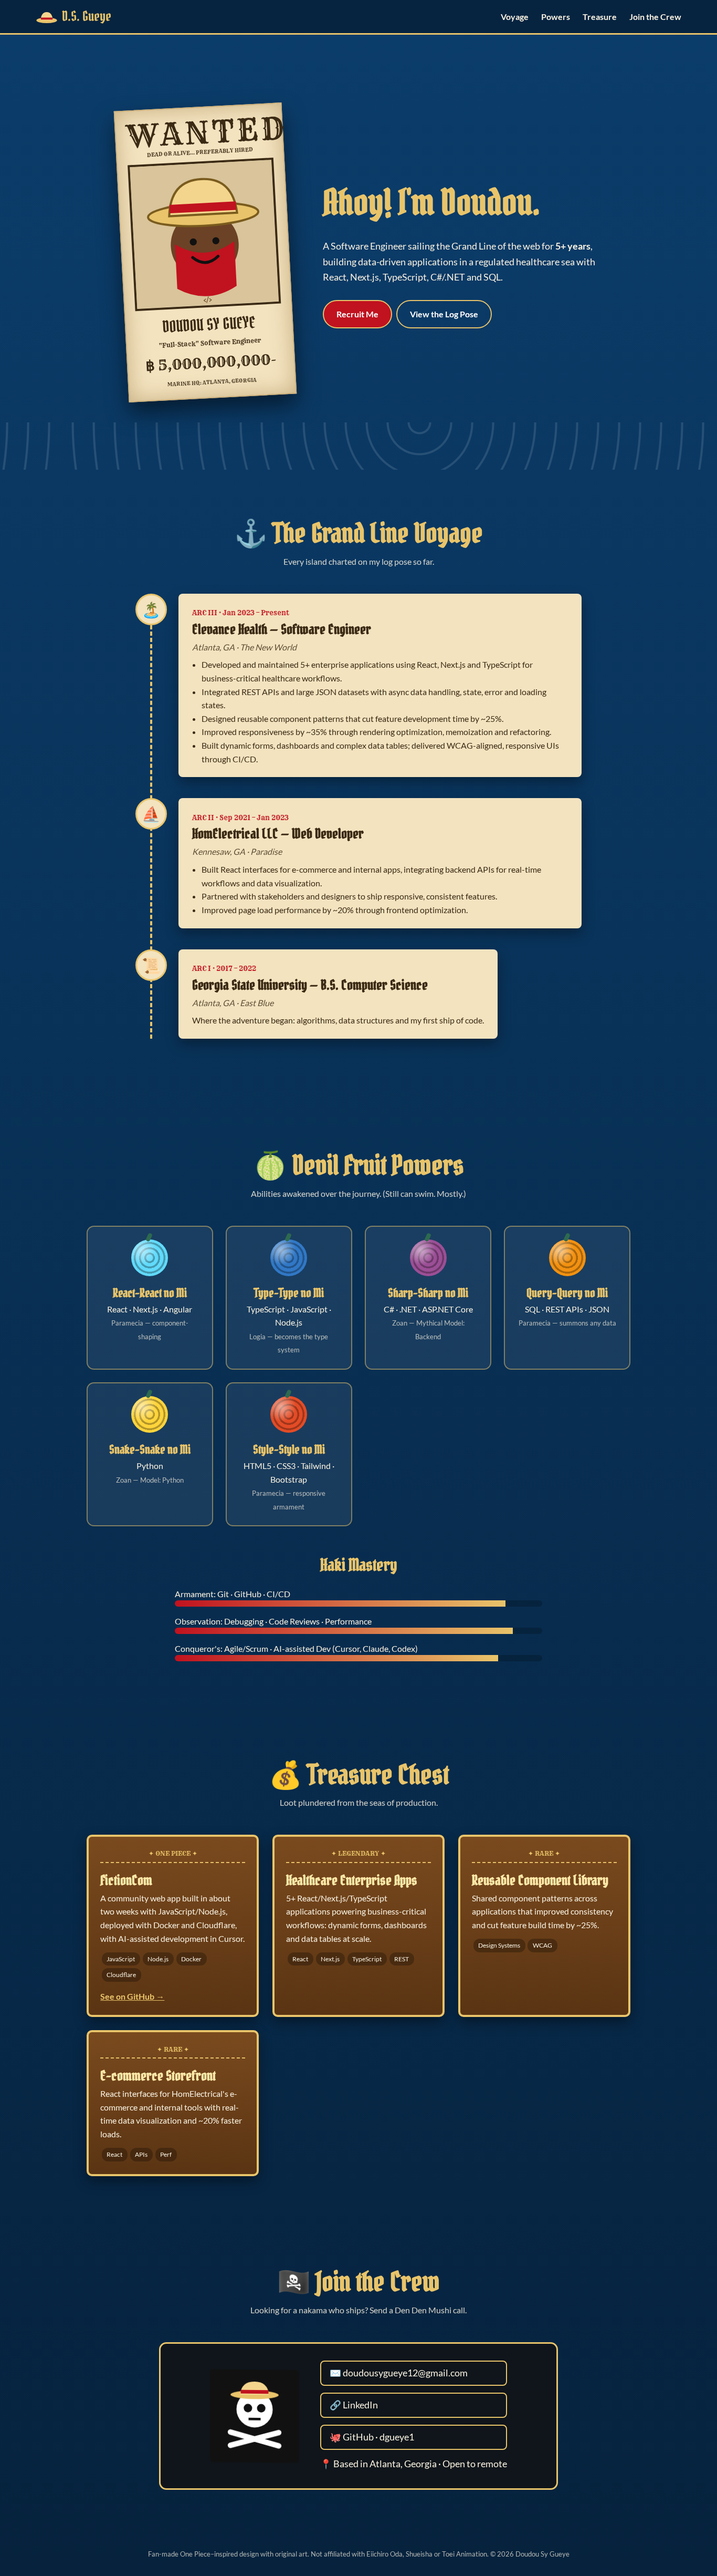
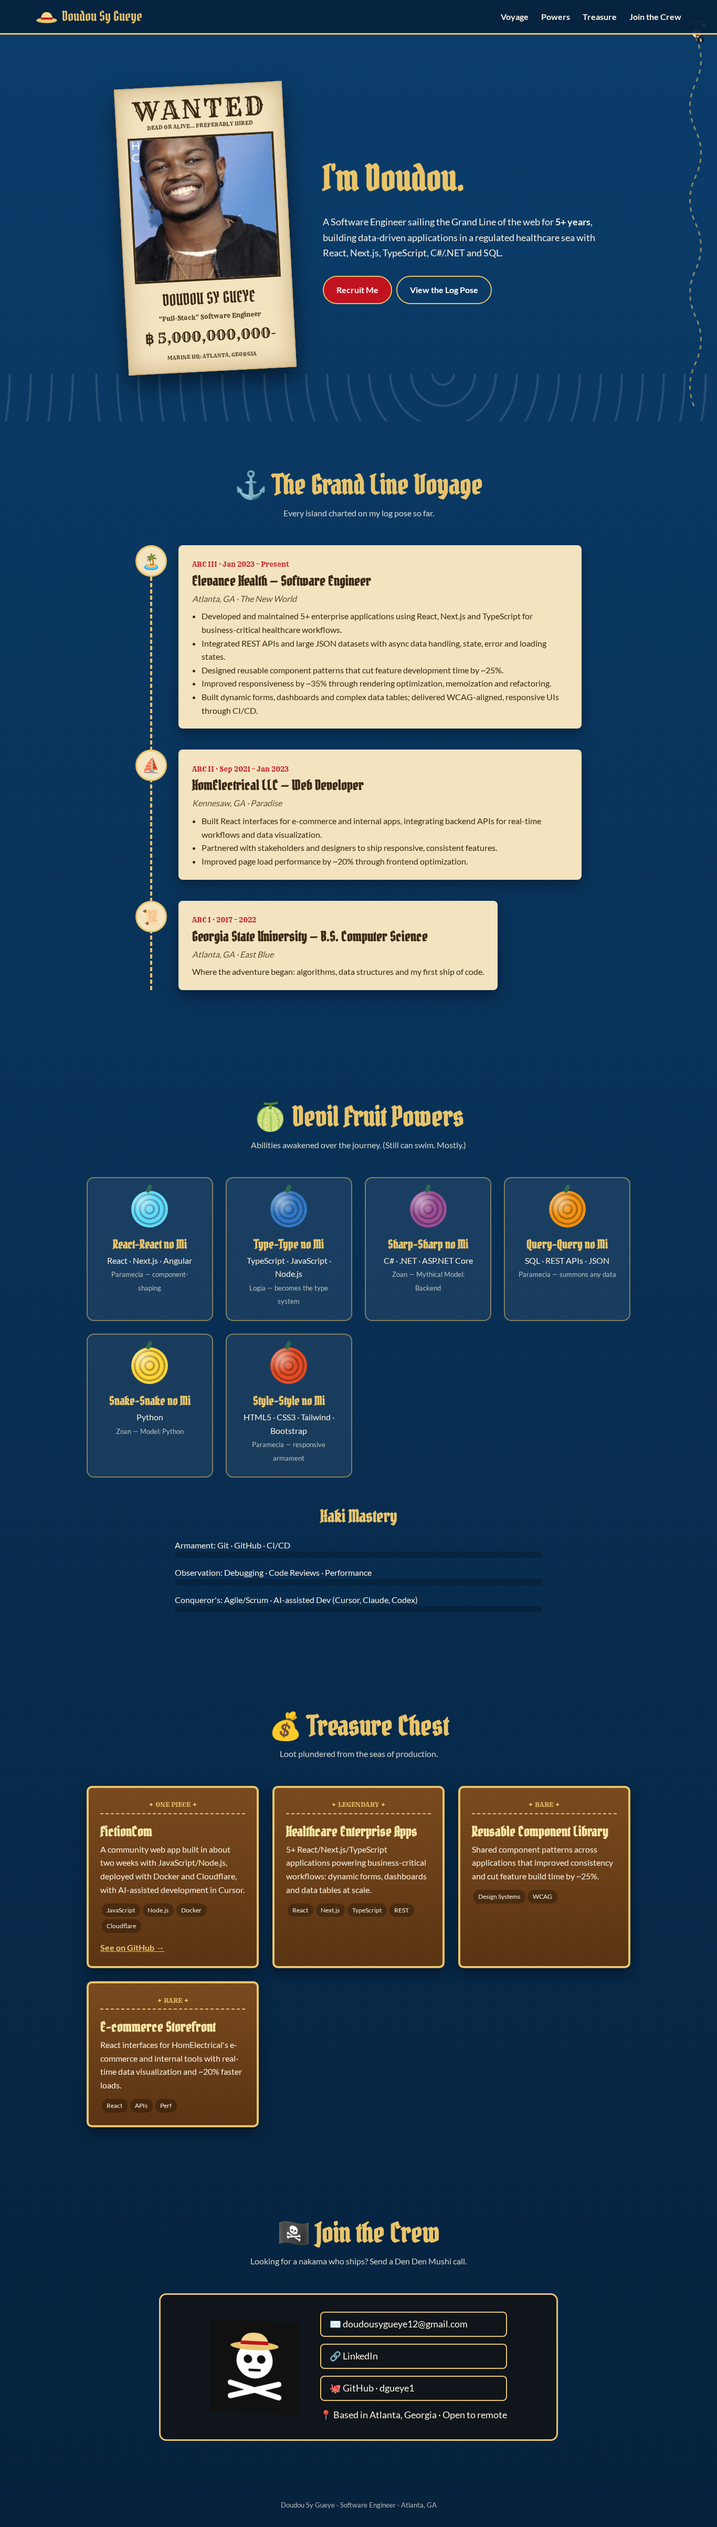
Add photo, fix WANTED fit, full name, I'm Doudou, remove disclaimer, scroll-driven Jolly Roger ship

diff --git a/index.html b/index.html
@@ -3,16 +3,16 @@
 <meta name="description" content="Portfolio of Doudou Sy Gueye, Software Engineer in Atlanta, GA. React, Next.js, TypeScript, C#/.NET, SQL, Python.">
 <link rel="preconnect" href="https://fonts.googleapis.com"><link href="https://fonts.googleapis.com/css2?family=Pirata+One&family=Rye&family=Lato:wght@400;700&display=swap" rel="stylesheet">
 <link rel="stylesheet" href="css/style.css"></head><body>
-<nav class="nav"><a href="#top" class="logo"><svg viewBox="0 0 64 40" class="hat-sm"><ellipse cx="32" cy="30" rx="30" ry="8" fill="#e9c46a"/><path d="M14 30 Q16 6 32 6 Q48 6 50 30Z" fill="#f4d58d"/><rect x="15" y="22" width="34" height="6" fill="#c1121f"/></svg> D.S. Gueye</a>
+<nav class="nav"><a href="#top" class="logo"><svg viewBox="0 0 64 40" class="hat-sm"><ellipse cx="32" cy="30" rx="30" ry="8" fill="#e9c46a"/><path d="M14 30 Q16 6 32 6 Q48 6 50 30Z" fill="#f4d58d"/><rect x="15" y="22" width="34" height="6" fill="#c1121f"/></svg> Doudou Sy Gueye</a>
 <button class="menu" aria-label="Menu">☰</button>
 <ul><li><a href="#voyage">Voyage</a></li><li><a href="#powers">Powers</a></li><li><a href="#treasure">Treasure</a></li><li><a href="#crew">Join the Crew</a></li></ul></nav>
 <header id="top" class="hero"><div class="waves"></div>
 <div class="poster reveal"><div class="poster-title">WANTED</div><div class="poster-sub">DEAD OR ALIVE... PREFERABLY HIRED</div>
-<div class="portrait"><svg viewBox="0 0 200 200"><rect width="200" height="200" fill="#d9c49b"/><circle cx="100" cy="115" r="48" fill="#6b4226"/><path d="M58 112 Q100 140 142 112 L142 175 Q100 200 58 175Z" fill="#c1121f"/><ellipse cx="100" cy="72" rx="78" ry="16" fill="#e9c46a" stroke="#7a5c1e" stroke-width="3"/><path d="M52 72 Q56 22 100 22 Q144 22 148 72Z" fill="#f4d58d" stroke="#7a5c1e" stroke-width="3"/><rect x="53" y="56" width="94" height="12" fill="#c1121f"/><circle cx="84" cy="110" r="5" fill="#111"/><circle cx="116" cy="110" r="5" fill="#111"/><path d="M82 132 Q100 148 118 132" stroke="#111" stroke-width="4" fill="none" stroke-linecap="round"/><text x="100" y="196" font-size="10" text-anchor="middle" fill="#5a3e1b" font-family="Rye">&lt;/&gt;</text></svg></div>
+<div class="portrait"><img src="images/doudou.jpg" alt="Doudou Sy Gueye" width="500" height="500"></div>
 <div class="poster-name">DOUDOU SY GUEYE</div><div class="poster-alias">"Full-Stack" Software Engineer</div>
 <div class="bounty"><span class="berry">฿</span> <span id="bounty" data-target="5000000000">0</span>-</div>
 <div class="poster-foot">MARINE HQ: ATLANTA, GEORGIA</div></div>
-<div class="hero-text reveal"><h1>Ahoy! I'm Doudou.</h1><p>A Software Engineer sailing the Grand Line of the web for <b>5+ years</b>, building data-driven applications in a regulated healthcare sea with React, Next.js, TypeScript, C#/.NET and SQL.</p>
+<div class="hero-text reveal"><h1>I'm Doudou.</h1><p>A Software Engineer sailing the Grand Line of the web for <b>5+ years</b>, building data-driven applications in a regulated healthcare sea with React, Next.js, TypeScript, C#/.NET and SQL.</p>
 <div class="btns"><a class="btn" href="#crew">Recruit Me</a><a class="btn alt" href="#voyage">View the Log Pose</a></div></div></header>
 
 <section id="voyage"><h2 class="sec-title">⚓ The Grand Line Voyage</h2><p class="sec-sub">Every island charted on my log pose so far.</p>
@@ -55,5 +55,7 @@
 <section id="crew"><h2 class="sec-title">🏴☠ Join the Crew</h2><p class="sec-sub">Looking for a nakama who ships? Send a Den Den Mushi call.</p>
 <div class="contact reveal"><div class="flag"><svg viewBox="0 0 120 120"><circle cx="60" cy="52" r="30" fill="#fff"/><circle cx="49" cy="50" r="7" fill="#111"/><circle cx="71" cy="50" r="7" fill="#111"/><path d="M50 68 h20" stroke="#111" stroke-width="4"/><ellipse cx="60" cy="28" rx="40" ry="7" fill="#e9c46a"/><path d="M36 28 Q38 6 60 6 Q82 6 84 28Z" fill="#f4d58d"/><rect x="37" y="20" width="46" height="6" fill="#c1121f"/><path d="M20 90 L100 112 M100 90 L20 112" stroke="#fff" stroke-width="9" stroke-linecap="round"/></svg></div>
 <div class="links"><a href="mailto:doudousygueye12@gmail.com">✉ doudousygueye12@gmail.com</a><a href="https://www.linkedin.com/in/doudou-sy-gueye-5a7218199" target="_blank" rel="noopener">🔗 LinkedIn</a><a href="https://github.com/dgueye1" target="_blank" rel="noopener">🐙 GitHub · dgueye1</a><p>📍 Based in Atlanta, Georgia · Open to remote</p></div></div></section>
-<footer>Fan-made One Piece–inspired design with original art. Not affiliated with Eiichiro Oda, Shueisha or Toei Animation. © <span id="yr"></span> Doudou Sy Gueye</footer>
+<footer>Doudou Sy Gueye · Software Engineer · Atlanta, GA</footer>
+<div class="route" aria-hidden="true"><svg class="route-svg" preserveAspectRatio="none"><path id="sea" fill="none"/></svg>
+<svg class="ship" viewBox="0 0 80 80"><g class="hull-g"><path d="M8 50 Q40 70 72 50 L66 62 Q40 74 14 62Z" fill="#8b5a2b" stroke="#3d2410" stroke-width="2"/><path d="M8 50 L72 50" stroke="#3d2410" stroke-width="2"/><rect x="38" y="12" width="3" height="40" fill="#3d2410"/><path d="M41 16 Q60 26 41 44Z" fill="#fff8e7" stroke="#bfa77a"/><path d="M38 18 Q20 28 38 42Z" fill="#fff8e7" stroke="#bfa77a"/><rect x="42" y="21" width="15" height="15" rx="2" fill="#111"/><svg x="42" y="21" width="15" height="15" viewBox="0 0 120 120"><circle cx="60" cy="52" r="30" fill="#fff"/><circle cx="49" cy="50" r="7" fill="#111"/><circle cx="71" cy="50" r="7" fill="#111"/><path d="M50 68 h20" stroke="#111" stroke-width="4"/><ellipse cx="60" cy="28" rx="40" ry="7" fill="#e9c46a"/><path d="M36 28 Q38 6 60 6 Q82 6 84 28Z" fill="#f4d58d"/><rect x="37" y="20" width="46" height="6" fill="#c1121f"/><path d="M20 90 L100 112 M100 90 L20 112" stroke="#fff" stroke-width="9" stroke-linecap="round"/></svg><rect x="41" y="2" width="18" height="11" fill="#111"/><svg x="44.5" y="2" width="11" height="11" viewBox="0 0 120 120"><circle cx="60" cy="52" r="30" fill="#fff"/><circle cx="49" cy="50" r="7" fill="#111"/><circle cx="71" cy="50" r="7" fill="#111"/><path d="M50 68 h20" stroke="#111" stroke-width="4"/><ellipse cx="60" cy="28" rx="40" ry="7" fill="#e9c46a"/><path d="M36 28 Q38 6 60 6 Q82 6 84 28Z" fill="#f4d58d"/><rect x="37" y="20" width="46" height="6" fill="#c1121f"/><path d="M20 90 L100 112 M100 90 L20 112" stroke="#fff" stroke-width="9" stroke-linecap="round"/></svg><ellipse cx="66" cy="50" rx="6" ry="5" fill="#f4e3b5" stroke="#3d2410"/></g></svg></div>
 <script src="js/main.js"></script></body></html>

diff --git a/css/style.css b/css/style.css
@@ -10,8 +10,8 @@ a{color:inherit}
 .waves{position:absolute;inset:auto 0 0 0;height:90px;background:repeating-radial-gradient(circle at 50% 0,transparent 0 18px,rgba(255,255,255,.12) 19px 22px,transparent 23px 40px);animation:wave 6s linear infinite}
 @keyframes wave{to{background-position:200px 0}}
 .poster{width:320px;background:var(--paper);color:var(--ink);padding:1.2rem;text-align:center;box-shadow:0 20px 40px rgba(0,0,0,.5),inset 0 0 40px rgba(120,80,20,.35);transform:rotate(-3deg);border:2px solid #cdb07a;font-family:Rye}
-.poster-title{font-size:3.6rem;letter-spacing:.3rem;line-height:1}.poster-sub{font-size:.62rem;margin-bottom:.6rem}
-.portrait{border:4px solid var(--ink);margin:0 auto .6rem}.portrait svg{display:block;width:100%}
+.poster-title{font-size:clamp(2.1rem,10.5vw,3rem);letter-spacing:.08em;margin-right:-.08em;line-height:1;white-space:nowrap;overflow:hidden;max-width:100%}.poster-sub{font-size:.62rem;margin-bottom:.6rem}
+.portrait{border:4px solid var(--ink);margin:0 auto .6rem}.portrait{aspect-ratio:1/1;overflow:hidden}.portrait img{display:block;width:100%;height:100%;object-fit:cover;object-position:center 30%;filter:sepia(.15)}
 .poster-name{font-family:'Pirata One';font-size:1.9rem}.poster-alias{font-size:.75rem;margin-bottom:.4rem}
 .bounty{font-size:1.7rem}.berry{font-family:serif;font-weight:bold}.poster-foot{font-size:.6rem;margin-top:.5rem}
 .hero-text{max-width:520px}.hero-text h1{font-family:'Pirata One';font-size:clamp(2.6rem,6vw,4.2rem);color:var(--gold)}.hero-text p{font-size:1.15rem;margin:1rem 0 1.5rem}
@@ -41,3 +41,13 @@ section{padding:5rem 6%;max-width:1200px;margin:auto}
 footer{text-align:center;padding:2rem;font-size:.8rem;opacity:.7}
 .reveal{opacity:0;transform:translateY(30px);transition:.7s}.reveal.show{opacity:1;transform:none}.poster.reveal.show{transform:rotate(-3deg)}
 @media(max-width:720px){.menu{display:block}.nav ul{display:none;position:absolute;top:100%;right:0;left:0;flex-direction:column;background:var(--deep);padding:1rem 5%}.nav ul.open{display:flex}.hero{gap:2rem}.poster{width:280px}.pin{flex-basis:46px;height:46px}.timeline:before{left:21px}}
+
+.poster{box-sizing:border-box;max-width:calc(100vw - 2.5rem)}
+.route{position:fixed;top:70px;bottom:20px;right:6px;width:70px;pointer-events:none;z-index:9}
+.route-svg{position:absolute;inset:0;width:100%;height:100%;overflow:visible}
+#sea{stroke:rgba(233,196,106,.55);stroke-width:3;stroke-dasharray:8 8}
+.ship{position:absolute;left:0;top:0;width:52px;height:52px;will-change:transform;filter:drop-shadow(0 3px 3px rgba(0,0,0,.5))}
+.hull-g{transform-origin:40px 50px;animation:bob 2.4s ease-in-out infinite}
+@keyframes bob{50%{transform:translateY(-3px) rotate(3deg)}}
+@media(max-width:720px){.route{top:auto;bottom:4px;left:8px;right:8px;width:auto;height:44px}.ship{width:40px;height:40px}}
+@media(prefers-reduced-motion:reduce){.hull-g{animation:none}}

diff --git a/js/main.js b/js/main.js
@@ -1,4 +1,3 @@
-document.getElementById('yr').textContent=new Date().getFullYear();
 document.querySelector('.menu').onclick=()=>document.querySelector('.nav ul').classList.toggle('open');
 document.querySelectorAll('.nav ul a').forEach(a=>a.onclick=()=>document.querySelector('.nav ul').classList.remove('open'));
 const io=new IntersectionObserver(es=>es.forEach(e=>{if(e.isIntersecting){e.target.classList.add('show');io.unobserve(e.target)}}),{threshold:.15});
@@ -6,3 +5,18 @@ document.querySelectorAll('.reveal,.haki').forEach(el=>io.observe(el));
 const hk=document.querySelector('.haki');new IntersectionObserver(es=>es.forEach(e=>e.isIntersecting&&hk.classList.add('on'))).observe(hk);
 const b=document.getElementById('bounty'),t=+b.dataset.target,s=performance.now();
 (function tick(n){const p=Math.min((n-s)/2200,1);b.textContent=Math.floor(t*(1-Math.pow(1-p,3))).toLocaleString('en-US');if(p<1)requestAnimationFrame(tick)})(s);
+
+(function(){const r=document.querySelector('.route'),p=document.getElementById('sea'),sh=document.querySelector('.ship'),sv=document.querySelector('.route-svg');
+const red=matchMedia('(prefers-reduced-motion: reduce)').matches;let len=0,cur=0,tgt=0,last=0,dir=1,vert=true,W=0,H=0;
+function build(){W=r.clientWidth;H=r.clientHeight;vert=H>W;let d='';const n=8;
+if(vert){const a=W/2-14;d='M'+W/2+' 0';for(let i=1;i<=n;i++){const y=H*i/n,c=y-H/n/2;d+=' Q'+(W/2+(i%2?a:-a))+' '+c+' '+W/2+' '+y}}
+else{const a=H/2-8;d='M0 '+H/2;for(let i=1;i<=n;i++){const x=W*i/n,c=x-W/n/2;d+=' Q'+c+' '+(H/2+(i%2?a:-a))+' '+x+' '+H/2}}
+sv.setAttribute('viewBox','0 0 '+W+' '+H);p.setAttribute('d',d);len=p.getTotalLength();}
+function prog(){const m=document.documentElement.scrollHeight-innerHeight;return m>0?Math.min(Math.max(scrollY/m,0),1):0}
+function draw(){const L=cur*len,pt=p.getPointAtLength(L),q=p.getPointAtLength(Math.min(L+1,len)),q0=p.getPointAtLength(Math.max(L-1,0));
+let ang=Math.atan2(q.y-q0.y,q.x-q0.x)*180/Math.PI;const s=sh.clientWidth;let flip=1;
+if(dir<0){ang+=180;}if(Math.abs(ang%360)>90&&Math.abs(ang%360)<270){flip=-1;ang+=180}
+sh.style.transform='translate('+(pt.x-s/2)+'px,'+(pt.y-s*0.75)+'px) rotate('+(ang*0.4)+'deg) scaleX('+flip+')';}
+function loop(){const d=tgt-cur;if(Math.abs(d)>0.0005){cur+=red?d:d*0.12;draw();requestAnimationFrame(loop)}else{cur=tgt;draw();running=false}}
+let running=false;function onS(){const n=prog();if(n!==last){dir=n>last?1:-1;last=n}tgt=n;if(!running){running=true;requestAnimationFrame(loop)}}
+build();cur=tgt=last=prog();draw();addEventListener('scroll',onS,{passive:true});addEventListener('resize',()=>{build();draw()});})();
